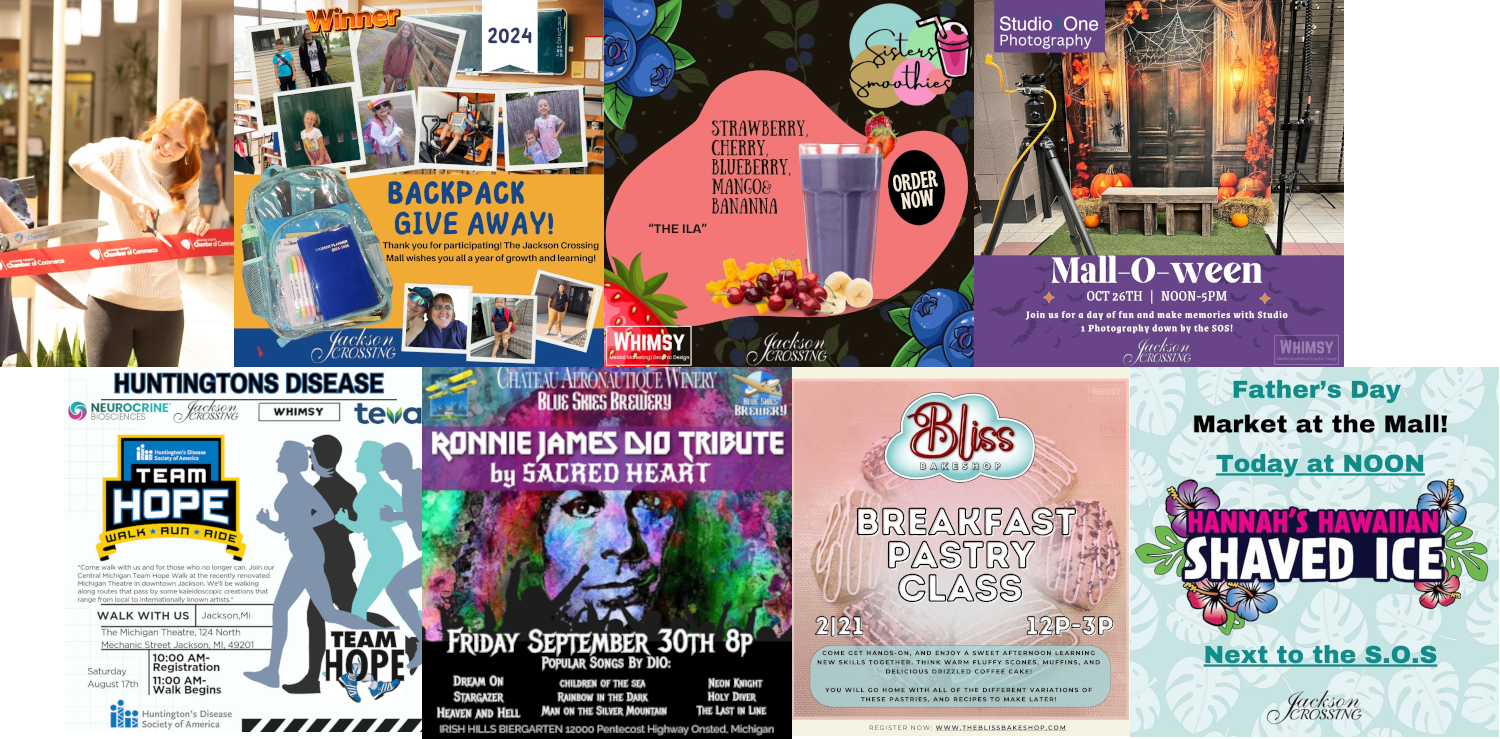
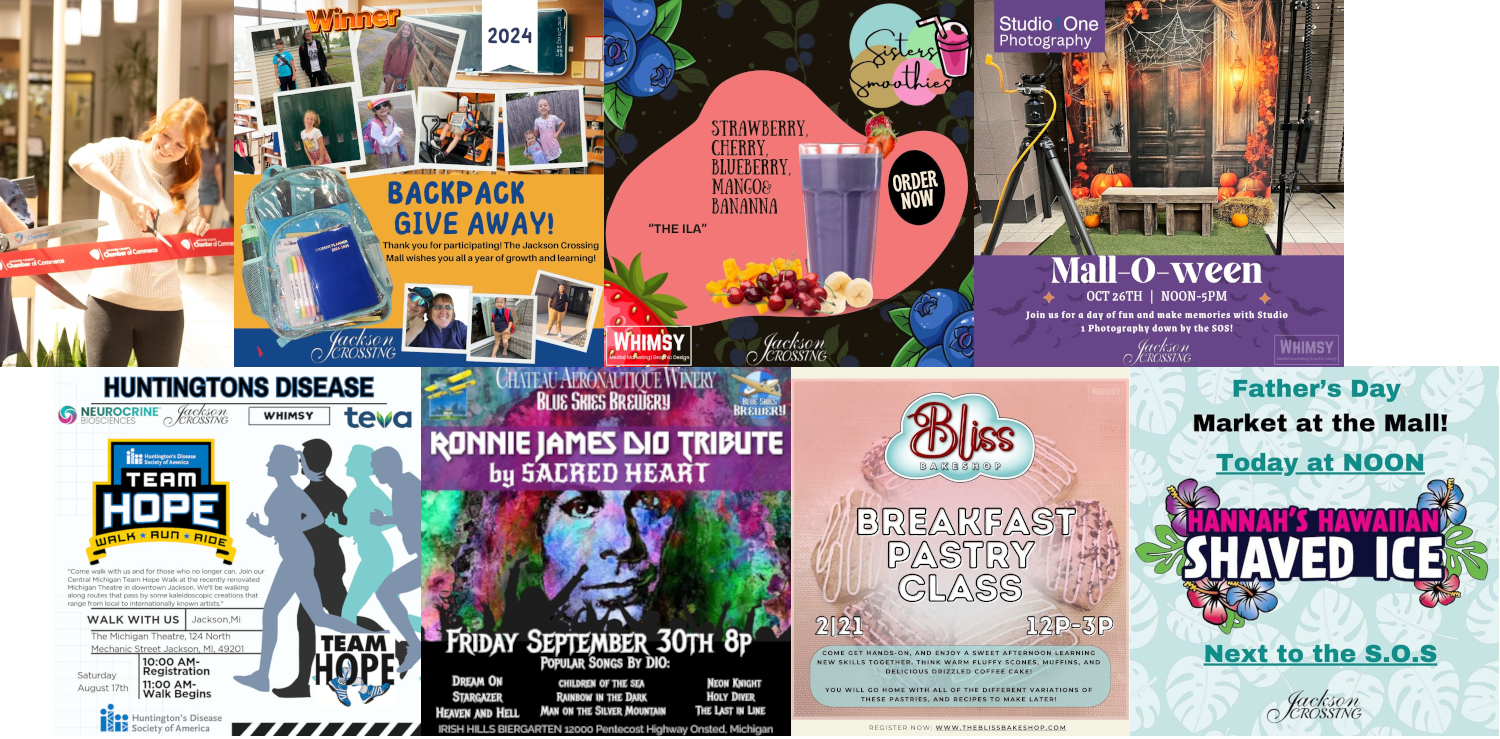
Enlarge homepage collage

diff --git a/src/app/collage.css b/src/app/collage.css
@@ -253,10 +253,17 @@
 .home-square-collage {
   display: block;
   align-self: center;
-  width: calc(100% + 40px);
+  width: calc(100% + 56px);
   max-width: none;
   height: auto;
-  margin-left: -28px;
+  margin-left: 0;
+}
+
+@media (min-width: 1051px) {
+  .home-hero {
+    grid-template-columns: 42% 58%;
+    gap: 0;
+  }
 }
 
 @media (max-width: 1050px) {
